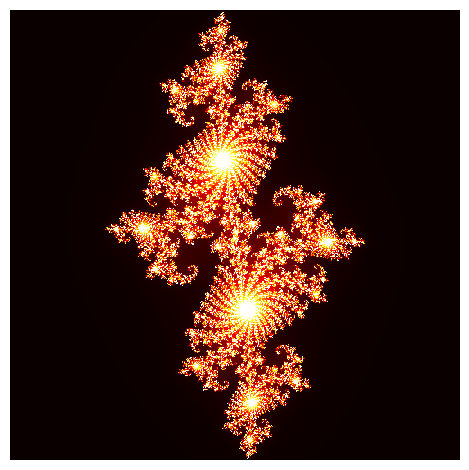
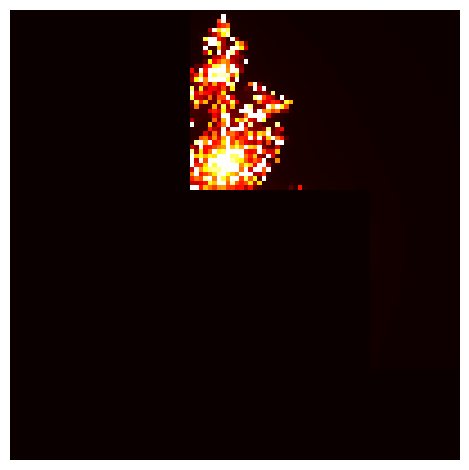
saving progress

Changed region(s): [[0.209, 0.0298, 0.7761, 0.983]]

diff --git a/julia_set/julia_par.py b/julia_set/julia_par.py
@@ -1,5 +1,4 @@
 #! /usr/bin/env python
-
 from re import U
 import numpy as np
 import argparse
@@ -15,7 +14,6 @@ GROUP_NUMBER = 1
 BENCHMARK_C = complex(-0.2, -0.65)
 
 def compute_julia_set_sequential(xmin, xmax, ymin, ymax, im_width, im_height, c):
-
     zabs_max = 10
     nit_max = 300
 
@@ -38,13 +36,60 @@ def compute_julia_set_sequential(xmin, xmax, ymin, ymax, im_width, im_height, c)
 
     return julia
 
+def compute_julia_worker(xmin, xmax, ymin, ymax, im_width, im_height, c,
+                         patch_x_start, patch_x_end, patch_y_start, patch_y_end):
+    zabs_max = 10
+    nit_max = 300
+
+    xwidth = xmax - xmin
+    yheight = ymax - ymin
+
+    patch_w = patch_x_end - patch_x_start
+    patch_h = patch_y_end - patch_y_start
+    patch_result = np.zeros((patch_w, patch_h))
+
+    for ix in range(patch_x_start, patch_x_end):
+        for iy in range(patch_y_start, patch_y_end):
+            nit = 0
+            # Global pixel position -> point in the complex plane
+            z = complex(ix / im_width * xwidth + xmin,
+                        iy / im_height * yheight + ymin)
+            while abs(z) <= zabs_max and nit < nit_max:
+                z = z ** 2 + c
+                nit += 1
+            ratio = nit / nit_max
+            # Write using LOCAL indices into the small patch array
+            patch_result[ix - patch_x_start, iy - patch_y_start] = ratio
+    return patch_result
+
+# patch describes the (maximum) width/height of the patch
 def compute_julia_in_parallel(size, xmin, xmax, ymin, ymax, patch, nprocs, c):
+    julia = np.zeros((size, size))
+    task_list = []
+    for x in range(0, size, patch):
+        x_start = x
+        x_end = min(x + patch, size)
+        for y in range(0, size, patch):
+            y_start = y
+            y_end = min(y + patch, size)
+            task_list.append([x_start, x_end, y_start, y_end])
+            print(task_list[-1])
 
-    # replace the following code
-    # with a parallel version
-    julia_img = compute_julia_set_sequential(xmin, xmax, ymin, ymax, size, size, c)
+    for task in task_list:
+        res = compute_julia_worker(xmin, xmax, ymin, ymax, size, size, c, task[0], task[1], task[2], task[3])
+        x_start = task[0]
+        x_end = task[1]
+        y_start = task[2]
+        y_end = task[3]
+        julia[x_start:x_end, y_start:y_end] = res
 
-    return julia_img
+
+    # pool = Pool(nprocs)
+    # restults = pool.map(task, items)
+    # pool.close()
+    return julia
+
+
 
 
 if __name__ == "__main__":

diff --git a/template/bopc_report.tex b/template/bopc_report.tex
@@ -11,15 +11,14 @@ headings=normal,
 %% ==================== ADAPT ACCORDINGLY ==================== %%
 
 % args: first name, last name, matriculation number
-\setAuthorOne{Jane}{Doe}{12012345}
-\setAuthorTwo{John}{Roe}{12112355}
-\setAuthorThree{Bob}{Doe}{12112346}
+\setAuthorOne{Max}{Spannring}{12104980}
+\setAuthorTwo{Ida}{Neuhauser}{11806595}
 
 % set group size and group number, group size influences author formatting
 
 % args: group size, group number (TUWEL)
 %\setGroup{2}{X}
-\setGroup{3}{X}
+\setGroup{2}{1}
 
 %% =========================================================== %%
 
